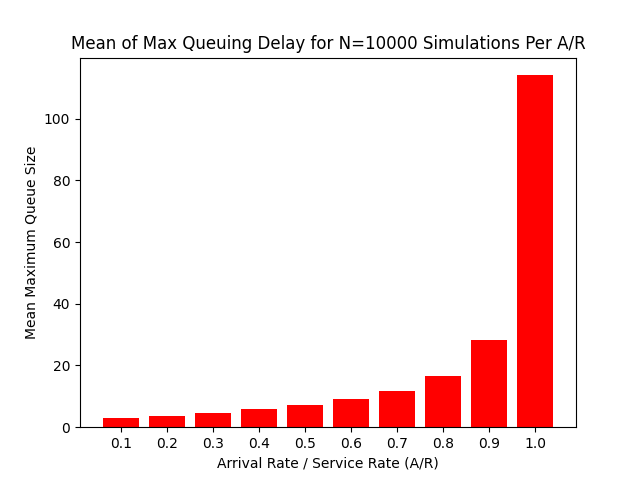
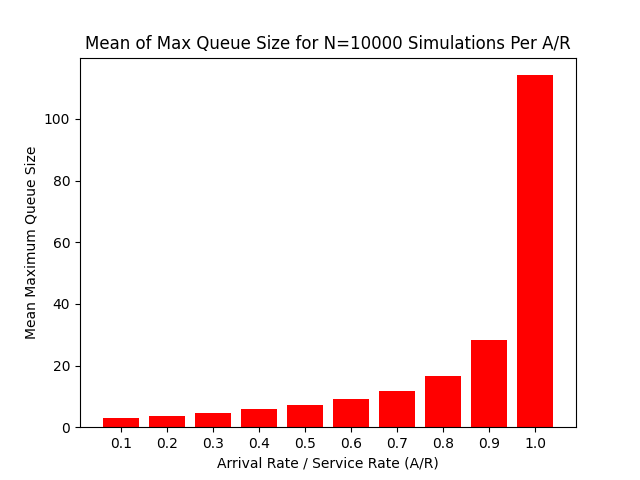
Fix simulation error bars

Changed region(s): [[0.0938, 0.0625, 0.9062, 0.125]]

diff --git a/src/main.rs b/src/main.rs
@@ -13,7 +13,7 @@ use std::io::{Read, Write};
 use simulator::Simulator;
 use std::time::Instant;
 
-const NUM_SUMULATIONS: usize = 2000;
+const NUM_SUMULATIONS: usize = 10000;
 const GRAPH_CODE_PATH: &'static str = "python/graph_code.py";
 const SCRIPT_PATH: &'static str = "graph.py";
 
@@ -53,7 +53,7 @@ fn main() -> Result<(), io::Error> {
         avg_qds.push(avg_qd);
         avg_qd_25pcts.push(avg_qd_25pct);
         avg_qd_75pcts.push(avg_qd_75pct);
-        println!("Running {} simulations for arrival rate={} took {}s", num_simulations, arrival_rate, duration);
+        println!("Running {} simulations for arrival rate={} took {:0.3}s", num_simulations, arrival_rate, duration);
     }
 
     let mut results = open_script_file()?;

diff --git a/python/graph_code.py b/python/graph_code.py
@@ -3,14 +3,16 @@ import numpy as np
 
 fig, ax = plt.subplots()
 
+p25 = [m - p for m, p in zip(mean, p25)]
+p75 = [p - m for m, p in zip(mean, p75)]
 xaxis = np.arange(1, 11)
-# xs = np.array(xs)
+
 ax.bar(xaxis, qs, color='r')
 ax.set_xticks(xaxis)
 ax.set_xticklabels(xs)
 plt.xlabel("Arrival Rate / Service Rate (A/R)")
 plt.ylabel("Mean Maximum Queue Size")
-plt.title(f"Mean of Max Queuing Delay for N={N} Simulations Per A/R")
+plt.title(f"Mean of Max Queue Size for N={N} Simulations Per A/R")
 plt.savefig('results/rust-qs.png')
 
 fig, ax = plt.subplots()

diff --git a/src/simulation.rs b/src/simulation.rs
@@ -33,7 +33,7 @@ impl SingleSimulation {
     }
 
     fn generate_times(&mut self) {
-        self.packet_arrivals = Default::default();
+        self.packet_arrivals.clear();
         let num_packets = self.arrival_rate * self.total_time;
         let max_time = (self.total_time * GRANULARITY_INV) + 1;
 

diff --git a/src/router_queue.rs b/src/router_queue.rs
@@ -16,8 +16,8 @@ impl RouterQueue {
     }
 
     pub fn reset(&mut self) {
-        self.q = VecDeque::new();
-        self.qd = Vec::new();
+        self.q.clear();
+        self.qd.clear();
     }
 
     pub fn pop(&mut self, t: &Time) -> Option<Packet> {
